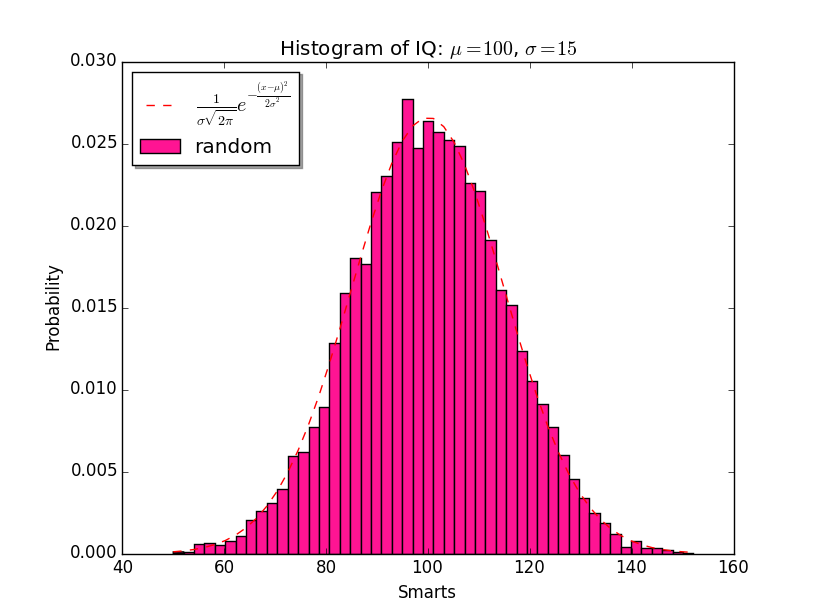
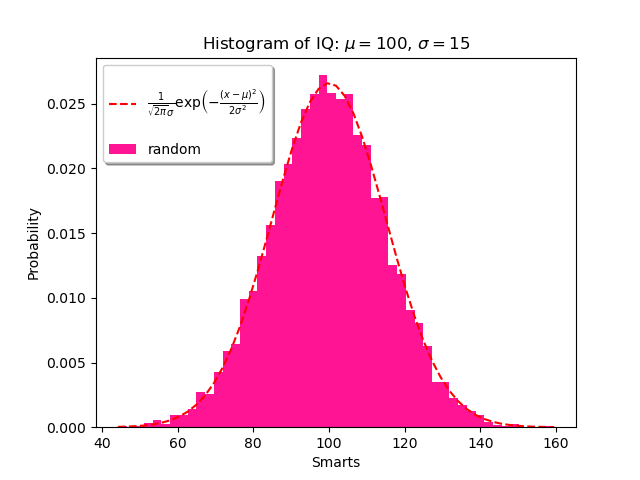
python-matplotlib: replace obsolete features

diff --git a/source/_sample/mpl/tex.py b/source/_sample/mpl/tex.py
@@ -5,13 +5,13 @@ You can obtain the original script file from:
 From http://matplotlib.org/mpl_examples/statistics/histogram_demo_features.py
 """
 from numpy.random import randn
-import matplotlib.mlab as mlab
+from scipy.stats import norm
 import matplotlib.pyplot as plt
 
 # pylint: disable=invalid-name
 
 NPDF_TEX = r'''
-$\frac{1}{\sigma \sqrt{2 \pi}} e^{-\frac{(x - \mu)^{2}}{2 \sigma ^{2}}}$
+$\frac{1}{\sqrt{2 \pi}\sigma} \exp\left(-\frac{(x - \mu)^{2}}{2 \sigma ^{2}}\right)$
 '''
 
 # example data
@@ -25,7 +25,7 @@ n, bins, patches = plt.hist(
     x, NUM_BINS, density=True, facecolor='deeppink', label='random')
 
 # add a 'best fit' line
-y = mlab.normpdf(bins, MU, SIGMA)
+y = norm.pdf(bins, MU, SIGMA)
 plt.plot(bins, y, 'r--', label=NPDF_TEX)
 plt.xlabel('Smarts')
 plt.ylabel('Probability')
